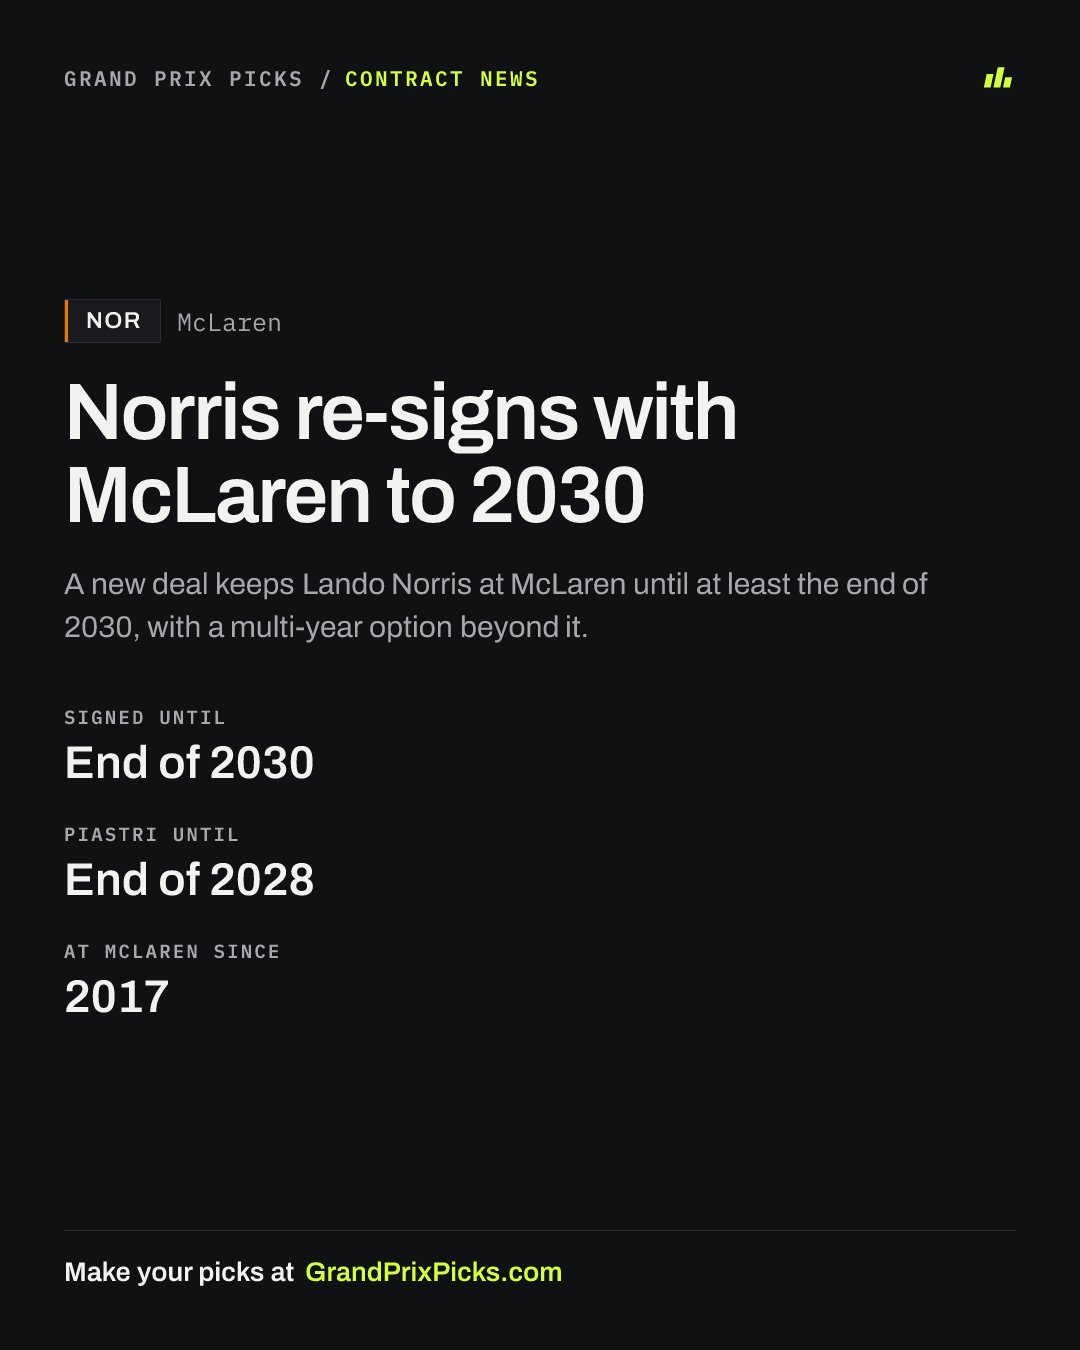
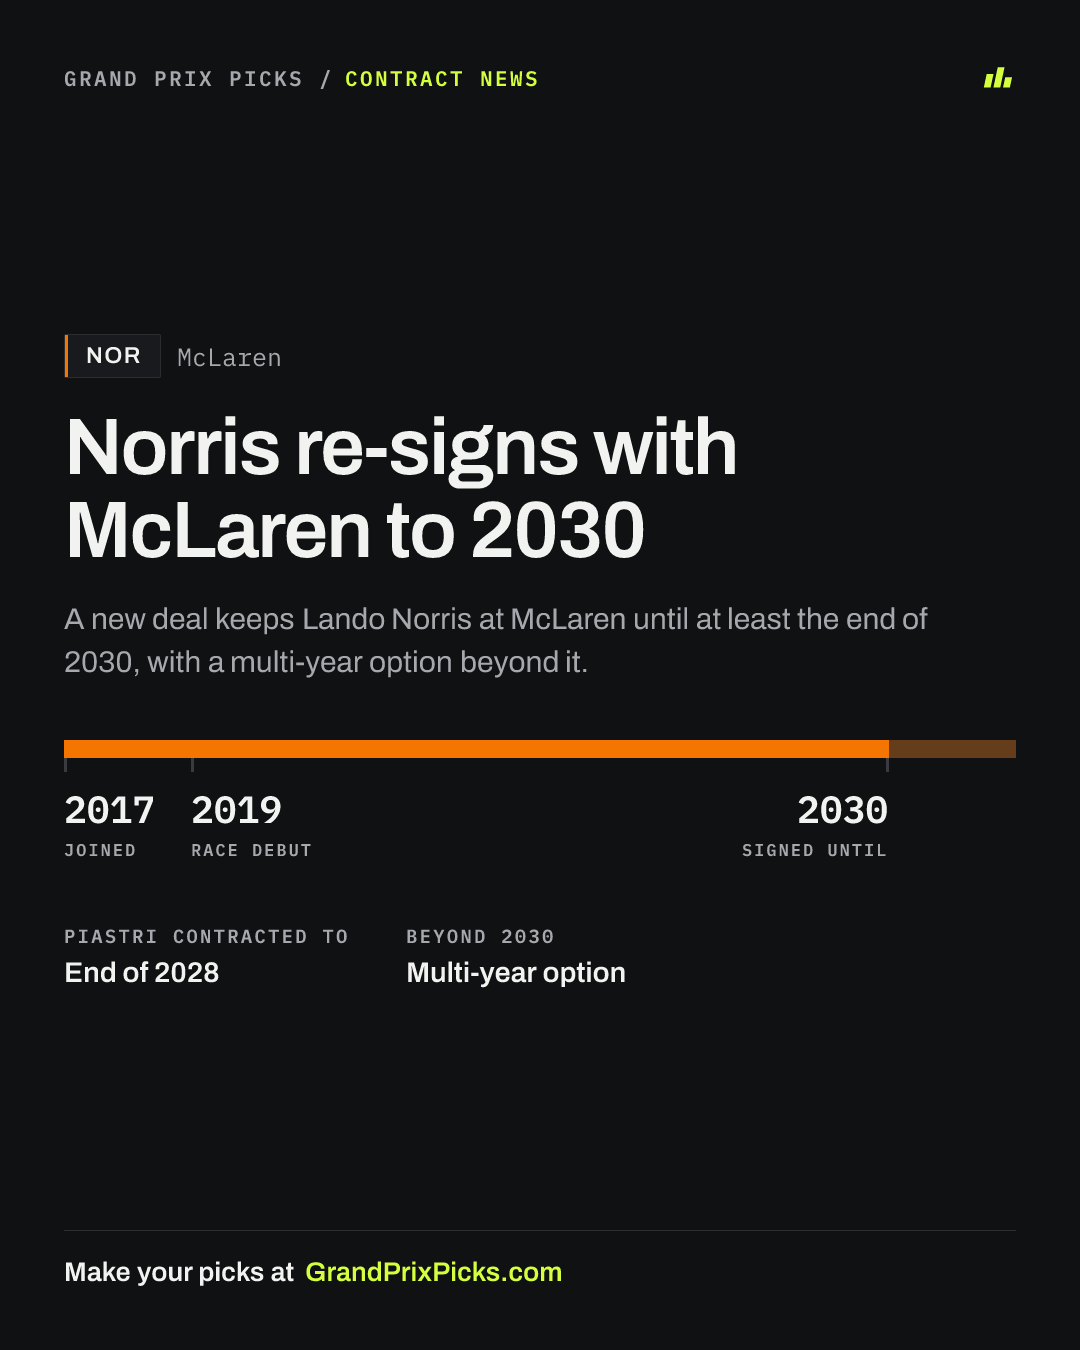
feat(social): give the Norris card a contract timeline
The card was typographically clean and had no graphic in it: the Dutch GP
card is carried by its bars and the Monza slides by their art, and this had
neither. The story is a span of years, so it gets one — a McLaren-papaya
bar from 2017 to 2030 with the multi-year option past 2030 in the same
colour at low opacity, marked at the three sourced dates. The length of the
commitment now reads before any of the words do.

Marks are positioned by percentage against the axis rather than by flex, so
2019 sits where 2019 actually falls. Piastri gets no bar because the
announcement gives his end date but not his start, and inventing one to
make the graphic symmetrical is exactly the kind of thing the race-news
policy exists to stop.

The wide card drops the facts row when a timeline is present; 900px cannot
hold both, and it was overflowing into the top strip.

Claude-Session: https://claude.ai/code/session_01N6LA5MXSj3NH78j28Zwgqa

diff --git a/apps/web/src/lib/og/socialCards.ts b/apps/web/src/lib/og/socialCards.ts
@@ -61,7 +61,7 @@ const SIZES = {
     width: 1600,
     height: 900,
     pad: 88,
-    headline: 92,
+    headline: 88,
     standfirst: 33,
     factLabel: 19,
     factValue: 40,
@@ -96,6 +96,25 @@ export interface SocialNewsCard {
   kicker?: string;
   /** Up to three label/value pairs. Values are set in mono. */
   facts: { label: string; value: string }[];
+  /**
+   * An optional span-of-years bar. When present it replaces the stacked facts
+   * as the card's main block and the facts drop to a compact row beneath it.
+   *
+   * Use it when the story *is* a duration. A contract card is three dates and
+   * a headline; drawn as a bar, the length of the commitment is the thing you
+   * see before reading a word, which is the whole point of the news.
+   */
+  timeline?: {
+    /** First and last labelled year of the axis. */
+    from: number;
+    to: number;
+    /** Where the solid run ends. Anything past it renders as the option tail. */
+    solidTo: number;
+    /** Team colour for the filled run. */
+    color: string;
+    marks: { year: number; label: string }[];
+    tailLabel?: string;
+  };
 }
 
 function topStrip(eyebrow: string): ReactNode {
@@ -184,7 +203,11 @@ function driverKicker(
   );
 }
 
-function factBlock(fact: { label: string; value: string }, s: Size): ReactNode {
+function factBlock(
+  fact: { label: string; value: string },
+  s: Size,
+  compact = false,
+): ReactNode {
   return e(
     'div',
     {
@@ -209,12 +232,148 @@ function factBlock(fact: { label: string; value: string }, s: Size): ReactNode {
       'div',
       {
         style: {
-          fontSize: s.factValue,
+          fontSize: compact ? s.factValue * 0.62 : s.factValue,
           fontWeight: 600,
           marginTop: 8,
         },
       },
       fact.value,
+    ),
+  );
+}
+
+/**
+ * The span-of-years bar.
+ *
+ * Laid out with percentage offsets against the axis rather than flex, because
+ * the marks have to line up with real years: a mark at 2026 sits where 2026
+ * actually falls, not wherever a flex row happens to put it. Satori supports
+ * percentage `left` on an absolutely positioned child, which is the only piece
+ * of arithmetic this needs.
+ *
+ * The tail past `solidTo` is the same colour at low opacity: an option that has
+ * not been taken up should read as lighter than a signed commitment, and a
+ * second hue would put a fourth colour on a card that allows two.
+ */
+function timelineBar(
+  timeline: NonNullable<SocialNewsCard['timeline']>,
+  s: Size,
+): ReactNode {
+  const span = timeline.to - timeline.from;
+  const railHeight = s.factsColumn ? 18 : 15;
+
+  /** A year's position along the axis, as a percentage of its full width. */
+  function pct(year: number): number {
+    return ((year - timeline.from) / span) * 100;
+  }
+
+  return e(
+    'div',
+    {
+      style: {
+        display: 'flex',
+        flexDirection: 'column' as const,
+        marginTop: s.factsColumn ? 56 : 44,
+      },
+    },
+    // Rail: unfilled ground, solid run, then the option tail.
+    e(
+      'div',
+      {
+        style: {
+          display: 'flex',
+          position: 'relative' as const,
+          width: '100%',
+          height: railHeight,
+          backgroundColor: colors.surfaceElevated,
+        },
+      },
+      e('div', {
+        style: {
+          position: 'absolute' as const,
+          left: 0,
+          top: 0,
+          width: `${pct(timeline.solidTo)}%`,
+          height: railHeight,
+          backgroundColor: timeline.color,
+        },
+      }),
+      e('div', {
+        style: {
+          position: 'absolute' as const,
+          left: `${pct(timeline.solidTo)}%`,
+          top: 0,
+          width: `${100 - pct(timeline.solidTo)}%`,
+          height: railHeight,
+          backgroundColor: timeline.color,
+          opacity: 0.32,
+        },
+      }),
+    ),
+    // Marks: a 3px tick at the real year, its figure in mono, its label under.
+    e(
+      'div',
+      {
+        style: {
+          display: 'flex',
+          position: 'relative' as const,
+          width: '100%',
+          height: s.factsColumn ? 122 : 104,
+        },
+      },
+      ...timeline.marks.map((mark) =>
+        e(
+          'div',
+          {
+            key: mark.label,
+            style: {
+              display: 'flex',
+              flexDirection: 'column' as const,
+              position: 'absolute' as const,
+              left: `${pct(mark.year)}%`,
+              top: 0,
+              // The last mark would otherwise run off the right edge.
+              transform:
+                pct(mark.year) > 85 ? 'translateX(-100%)' : 'translateX(0)',
+              alignItems: pct(mark.year) > 85 ? 'flex-end' : 'flex-start',
+            },
+          },
+          e('div', {
+            style: {
+              width: 3,
+              height: 14,
+              backgroundColor: colors.borderStrong,
+            },
+          }),
+          e(
+            'div',
+            {
+              style: {
+                fontSize: s.factsColumn ? 38 : 33,
+                fontWeight: 600,
+                fontFamily: 'IBM Plex Mono',
+                marginTop: 12,
+              },
+            },
+            String(mark.year),
+          ),
+          e(
+            'div',
+            {
+              style: {
+                fontSize: s.factLabel - 2,
+                fontWeight: 600,
+                fontFamily: 'IBM Plex Mono',
+                textTransform: 'uppercase' as const,
+                letterSpacing: 2,
+                color: colors.textMuted,
+                marginTop: 6,
+              },
+            },
+            mark.label,
+          ),
+        ),
+      ),
     ),
   );
 }
@@ -280,19 +439,30 @@ export function socialNewsCard(
         },
         data.standfirst,
       ),
+      data.timeline ? timelineBar(data.timeline, s) : null,
+      // The facts row is dropped from the wide card whenever a timeline is
+      // shown. 900px does not hold a top strip, kicker, two-line headline,
+      // two-line standfirst, an axis AND a facts row: the block overflowed and
+      // shunted the kicker into the strip above it. The portrait frame has the
+      // room, and on X the same facts are in the post copy anyway.
       e(
         'div',
         {
           style: {
             display: 'flex',
-            flexDirection: s.factsColumn
-              ? ('column' as const)
-              : ('row' as const),
-            gap: s.factsGap,
-            marginTop: s.factsColumn ? 56 : 48,
+            flexDirection:
+              data.timeline || !s.factsColumn
+                ? ('row' as const)
+                : ('column' as const),
+            gap: data.timeline ? 56 : s.factsGap,
+            marginTop: data.timeline ? 44 : s.factsColumn ? 56 : 48,
           },
         },
-        ...data.facts.slice(0, 3).map((fact) => factBlock(fact, s)),
+        ...(data.timeline && !s.factsColumn
+          ? []
+          : data.facts
+              .slice(0, 3)
+              .map((fact) => factBlock(fact, s, !!data.timeline))),
       ),
     ),
     // The system's one hairline, then the call to action. The domain is the

diff --git a/artifacts/social/norris-mclaren-2030/campaign.md b/artifacts/social/norris-mclaren-2030/campaign.md
@@ -26,10 +26,22 @@ No carousel. One story with three facts does not fill six slides, and padding
 it out would be obvious. One asset per channel, matching the Dutch GP community
 picks campaign:
 
-| Channel   | Asset                             | Size      |
-| --------- | --------------------------------- | --------- |
+| Channel   | Asset                               | Size      |
+| --------- | ----------------------------------- | --------- |
 | Instagram | `norris-mclaren-2030-instagram.png` | 1080x1350 |
 | X         | `norris-mclaren-2030-x.png`         | 1600x900  |
+
+The card's graphic is a **contract timeline**: a McLaren-papaya bar running
+2017 to 2030, with the multi-year option past 2030 as the same colour at low
+opacity, and marks at the three sourced dates. The story is a span of years, so
+drawn as a bar the length of the commitment is legible before a word is read.
+Every year on it comes from the Formula 1 announcement; Piastri has no bar of
+his own because the source gives his end date but not his start.
+
+The wide card shows the timeline without the facts row beneath it. 900px does
+not hold a top strip, kicker, two-line headline, two-line standfirst, an axis
+and a facts row: the block overflows and shunts the kicker into the strip
+above. The portrait frame has the room.
 
 Rendered from design tokens, not collage art:
 `pnpm --filter @grandprixpicks/web social-card norris-mclaren-2030`. This is a
